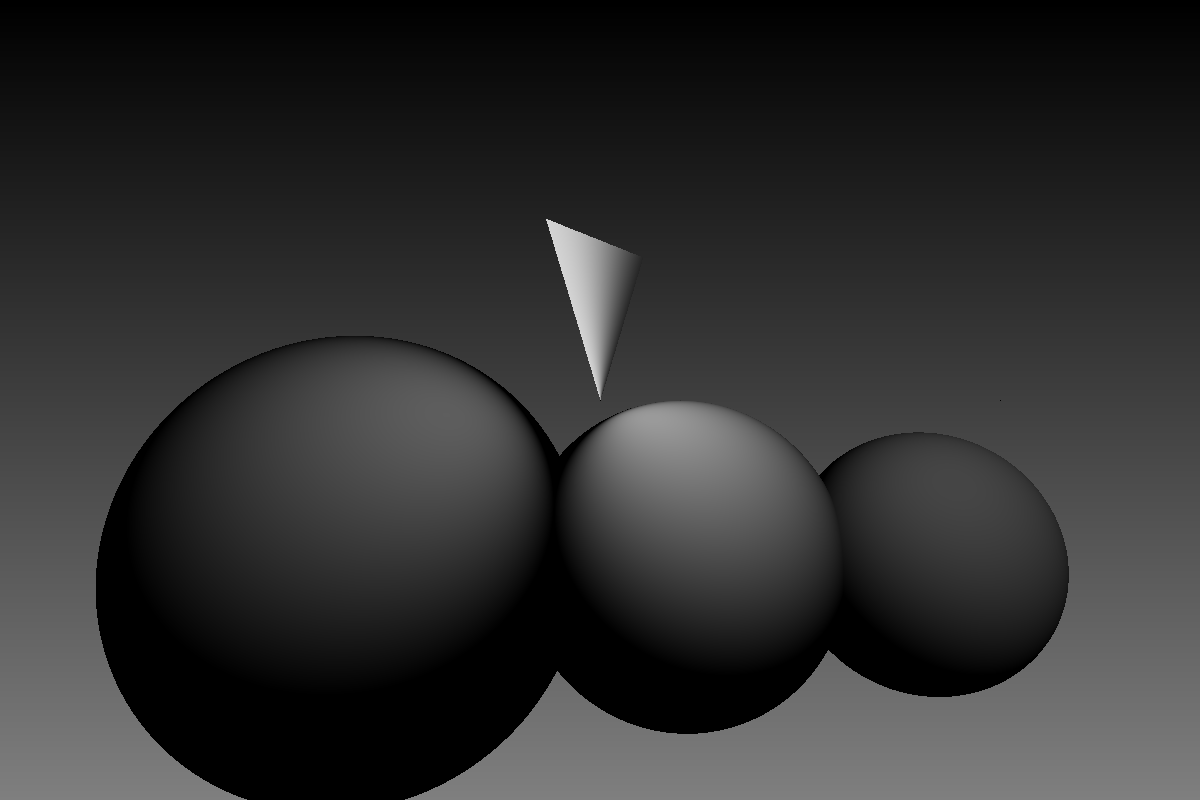
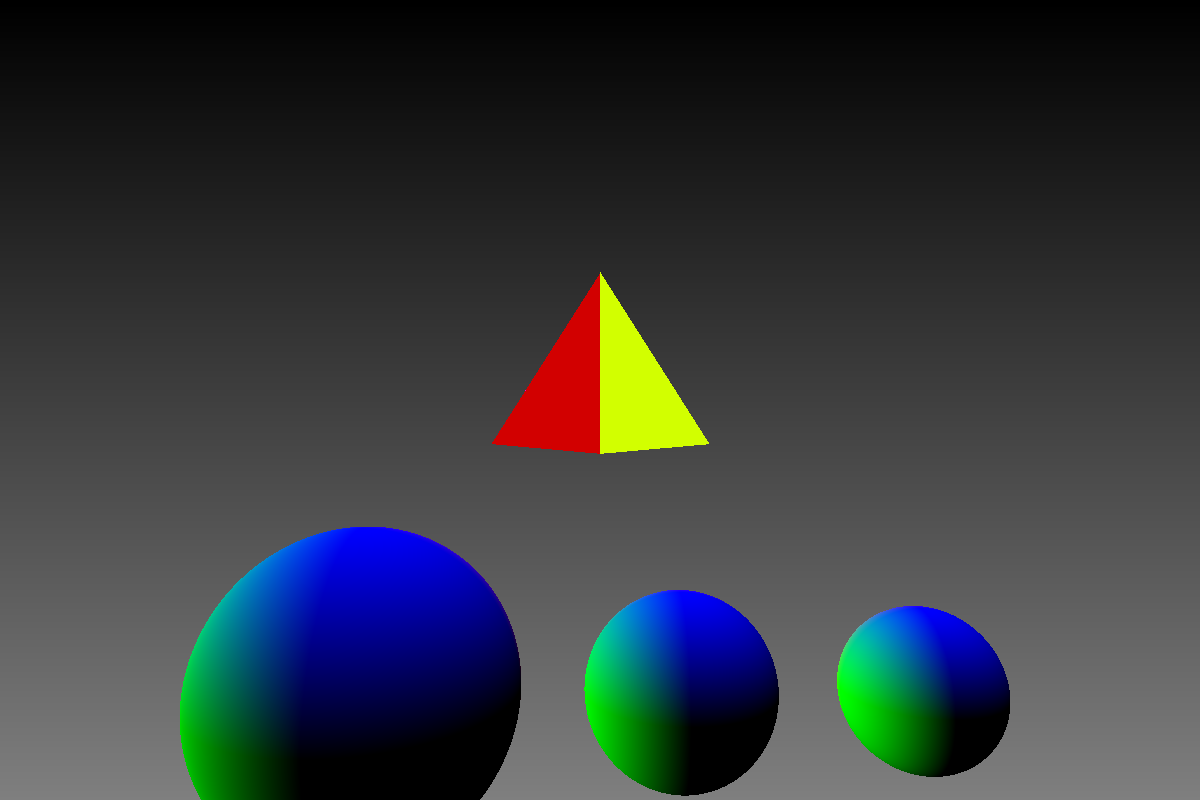
testing triangles

Changed region(s): [[0.0617, 0.2812, 0.8942, 1.0], [0.3392, 0.9062, 0.4317, 1.0]]

diff --git a/geometry/tri.go b/geometry/tri.go
@@ -20,7 +20,7 @@ func (tri Tri) Normal(ray Ray, HitPoint Vec) Vec {
 
 func (tri Tri) Intersect(ray Ray, t *float64) bool {
 
-	EPSILON := 0.0000001
+	EPSILON := 0.0000000001
 	var a,f,u,v float64
 
 	edge1 := tri.B.Sub(tri.A)
@@ -55,70 +55,3 @@ func (tri Tri) Intersect(ray Ray, t *float64) bool {
 	return true
 
 }
-
-/*
-func (tri Tri) Intersect(ray Ray, t *float64) bool {
-
-	//Planes Normal
-	ab := tri.B.Sub(tri.A)
-	ac := tri.C.Sub(tri.A)
-
-	//calculate Normal
-	normal := Cross(ab, ac)
-	//area2 := normal.Length()
-
-	//Find P
-	//check if ray & Plane parallel
-	nDotRay := Dot(normal, ray.D)
-
-	//TODO find more elegant way for kEpsilon
-	if math.Abs(nDotRay) < 0.00000000000001 {
-		//don't intersect if ray & Tri are parallel
-		return false
-	}
-
-	// d Parameter
-	d := Dot(normal, tri.A)
-
-	//set t
-	*t = (Dot(normal, ray.O) + d) / nDotRay
-
-	// check if the triangle is in behind the ray
-	if (*t < 0) {
-		return false
-	}
-
-	//Ray HitPoint
-	p := ray.O.Add(ray.D.Multiply(*t))
-
-
-	//edge 0
-	edge0 := tri.B.Sub(tri.A)
-	vp0 := p.Sub(tri.A)
-	c := Cross(edge0, vp0)
-
-	if Dot(normal, c) < 0 {
-		return false // P is on the right side
-	}
-
-	//edge 1
-	edge1 := tri.C.Sub(tri.B)
-	vp1 := p.Sub(tri.B)
-	c = Cross(edge1, vp1)
-
-	if Dot(normal, c) < 0 {
-		return false // P is on the right side
-	}
-
-	//edge 2
-	edge2 := tri.A.Sub(tri.C)
-	vp2 := p.Sub(tri.C)
-	c = Cross(edge2, vp2)
-
-	if Dot(normal, c) < 0 {
-		return false // P is on the right side
-	}
-
-	return true
-}
-*/

diff --git a/main.go b/main.go
@@ -11,23 +11,27 @@ func main() {
 	//Simple Sphere test-scene
 	cam_or := Vec{-5, 0, 0}
 	//cam_dir := Vec{-1,0,0}.Normalized() // - TODO
-	sp1 := geometry.Sphere{Vec{0,-0.5,-1}, 1}
-	sp2 := geometry.Sphere{Vec{0,1.5,-1}, 1.4}
-	sp3 := geometry.Sphere{Vec{0,-2,-1}, 0.8}
+	sp1 := geometry.Sphere{Vec{0,-0.5,-1.8}, 0.6}
+	sp2 := geometry.Sphere{Vec{0,1.5,-1.8}, 1}
+	sp3 := geometry.Sphere{Vec{0,-2,-1.8}, 0.5}
 
 	//Cube
-	v1 := Vec{0,0,0}
-	v2 := Vec{0.6,-0.3,1}
-	v3 := Vec{-0.6, 0.3, 1}
+	v1 := Vec{-0.5,0,-0.3}
+	v2 := Vec{0.5,-0.75,-0.3}
+	v3 := Vec{0.5,0.75,-0.3}
+	v4 := Vec{0,0,0.8}
 
 
 	tri1 := geometry.Tri{v2,v1,v3}
+	tri2 := geometry.Tri{v4,v2,v1}
+	tri3 := geometry.Tri{v2,v3,v4}
+	tri4 := geometry.Tri{v1,v3,v4}
 
 
 	//tri2 := geometry.Tri{Vec{0,0,1}, Vec{0,1,0}, Vec{0,0,1}}
 	//tri3 := geometry.Tri{Vec{0,0,1}, Vec{0,1,0}, Vec{0,0,1}}
 
-	ObArray := []geometry.Geometry{&sp1, &sp2, &sp3, &tri1}
+	ObArray := []geometry.Geometry{&sp1, &sp2, &sp3, &tri1, &tri2, &tri3, &tri4}
 
 	Render(ObArray, cam_or, WIDTH, HEIGHT, "image2")
 

diff --git a/render.go b/render.go
@@ -62,11 +62,11 @@ func Render(objectArray []geometry.Geometry, cam_or Vec, WIDTH, HEIGHT int, file
 				LightPos := Vec{-4, -1, 3}
 				LightAttendance := Dot(HitPoint.Normalized(), LightPos.Normalized())
 
-				//Placeholder Color
+				//Placeholder Color TODO!
 				//Color Spheres (color multiplied with Light Attendance)
-				col = color.Gray32(float32(ObjectHitIndex) / 5)
+				//col = color.Gray32(float32(ObjectHitIndex) / 5)
 				col = color.Gray32(float32(LightAttendance))
-				//col = color.FromVec(objectArray[ObjectHitIndex].Normal(ray, HitPoint))
+				col = color.FromVec(objectArray[ObjectHitIndex].Normal(ray, HitPoint))
 				col.Clamp()
 			}
 			//convert float32 colors to 24 bit (0-255) color and save
